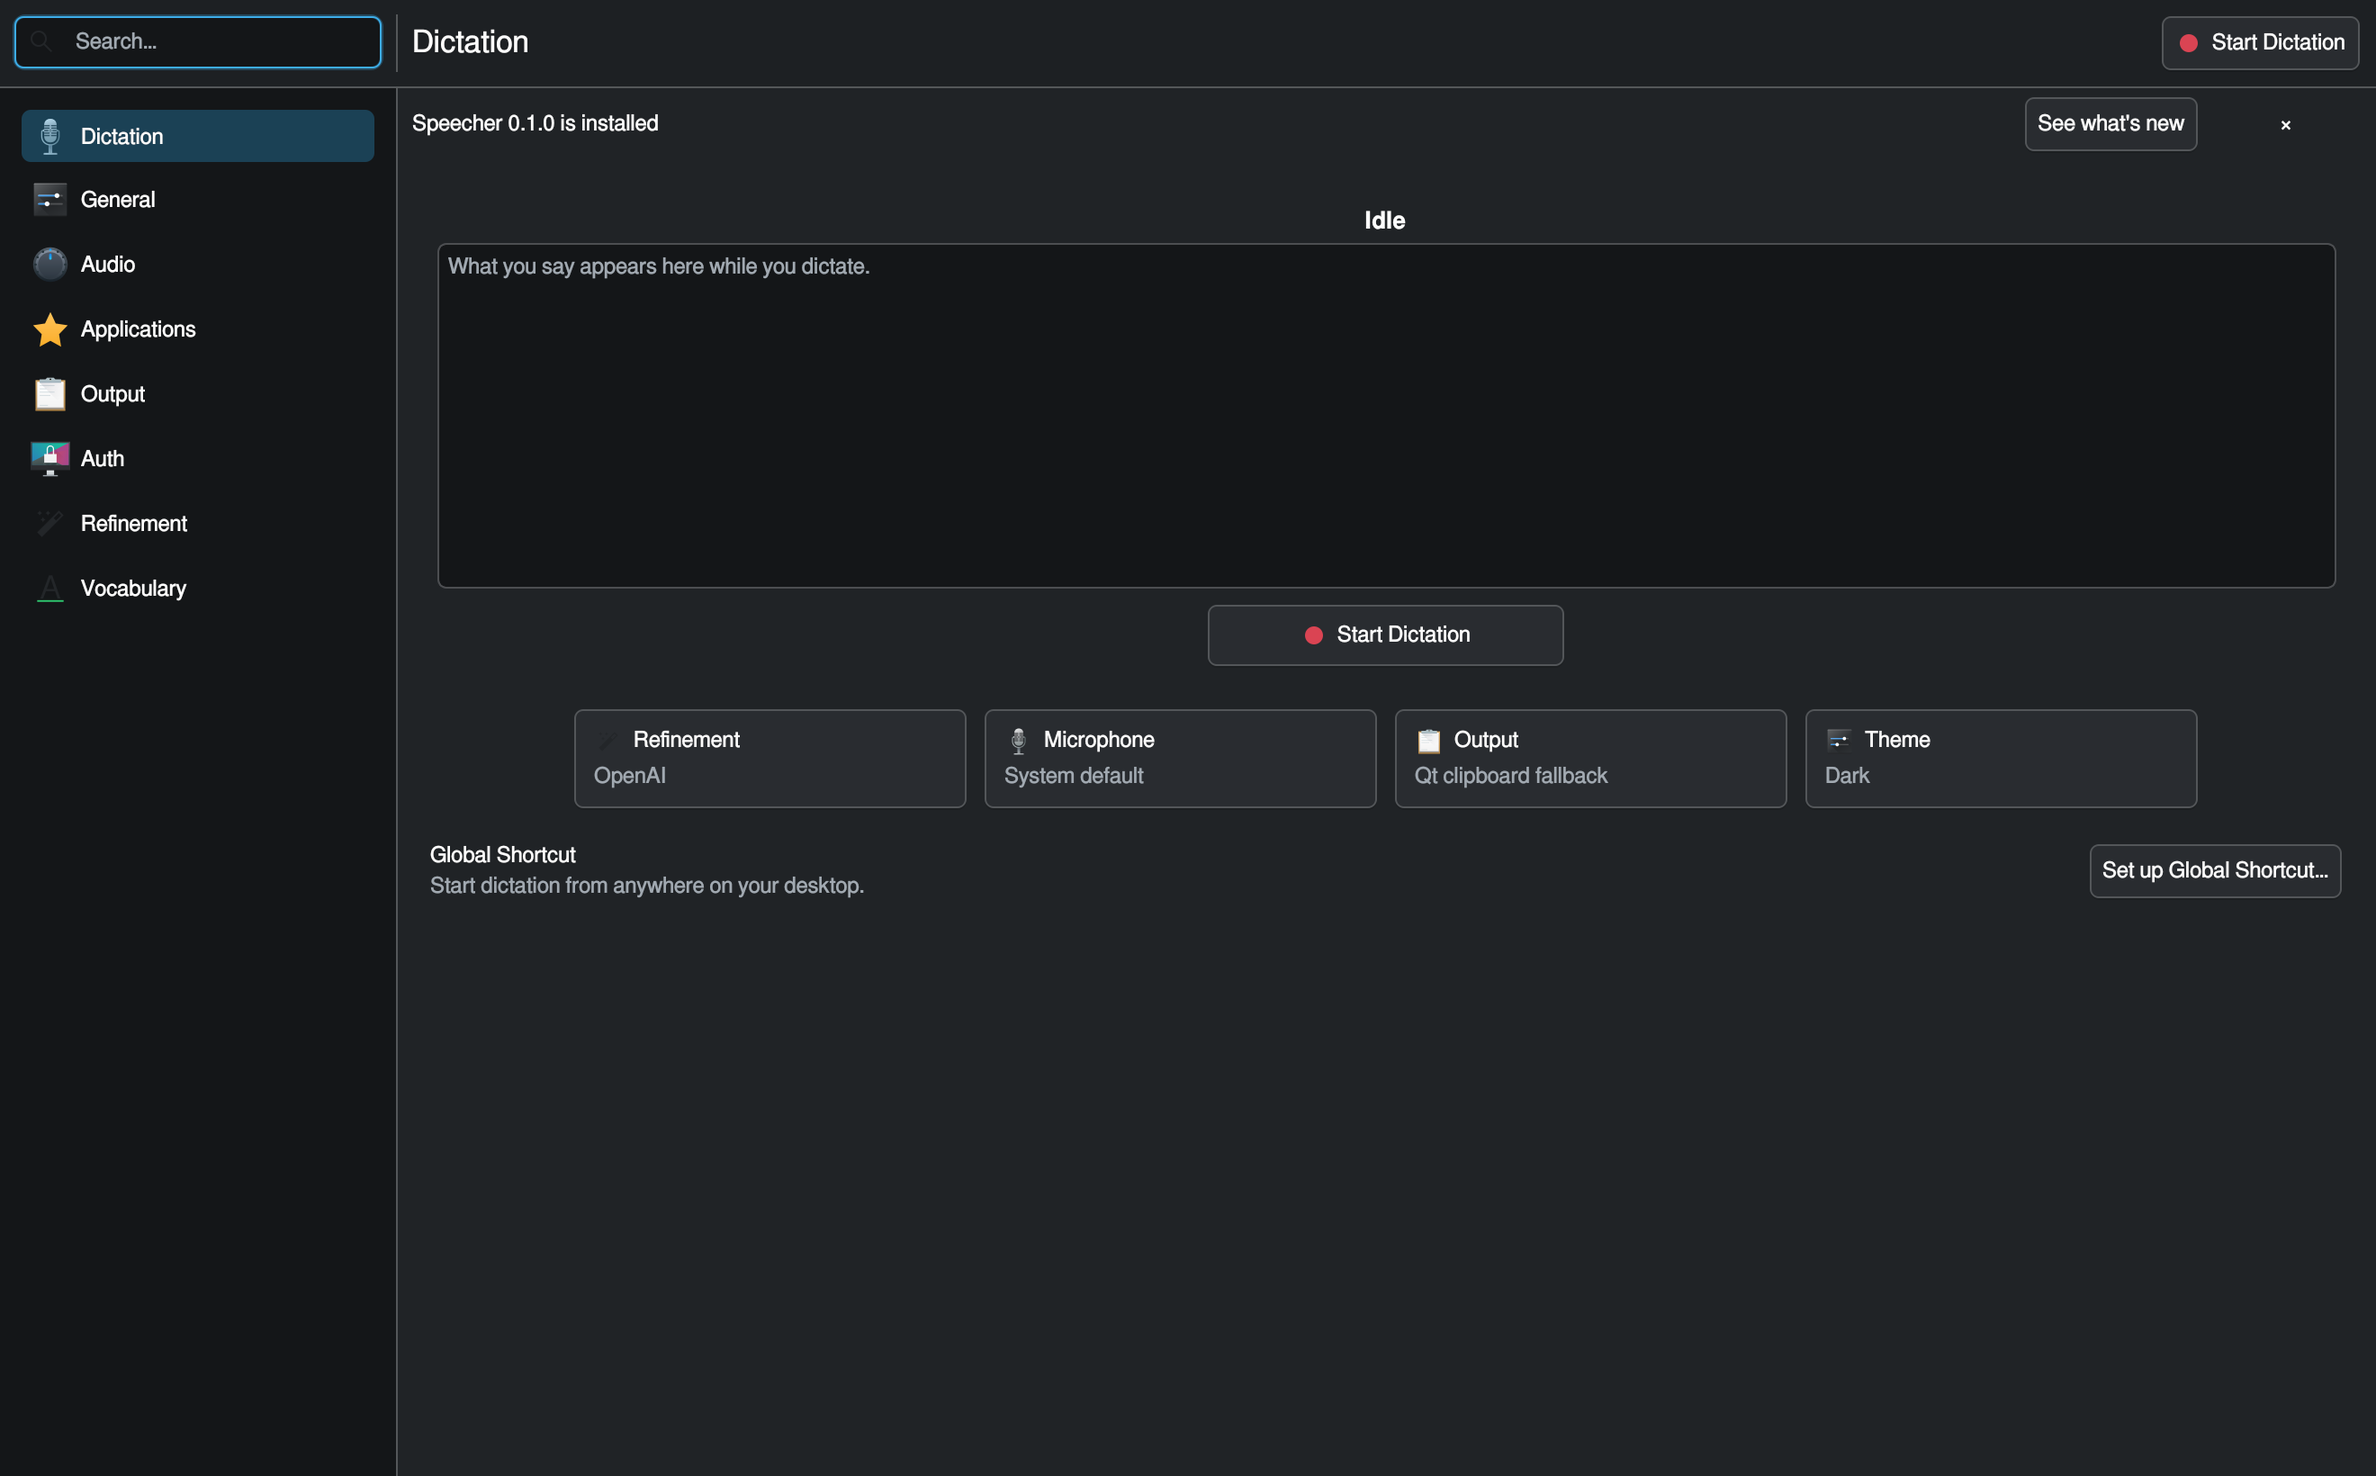
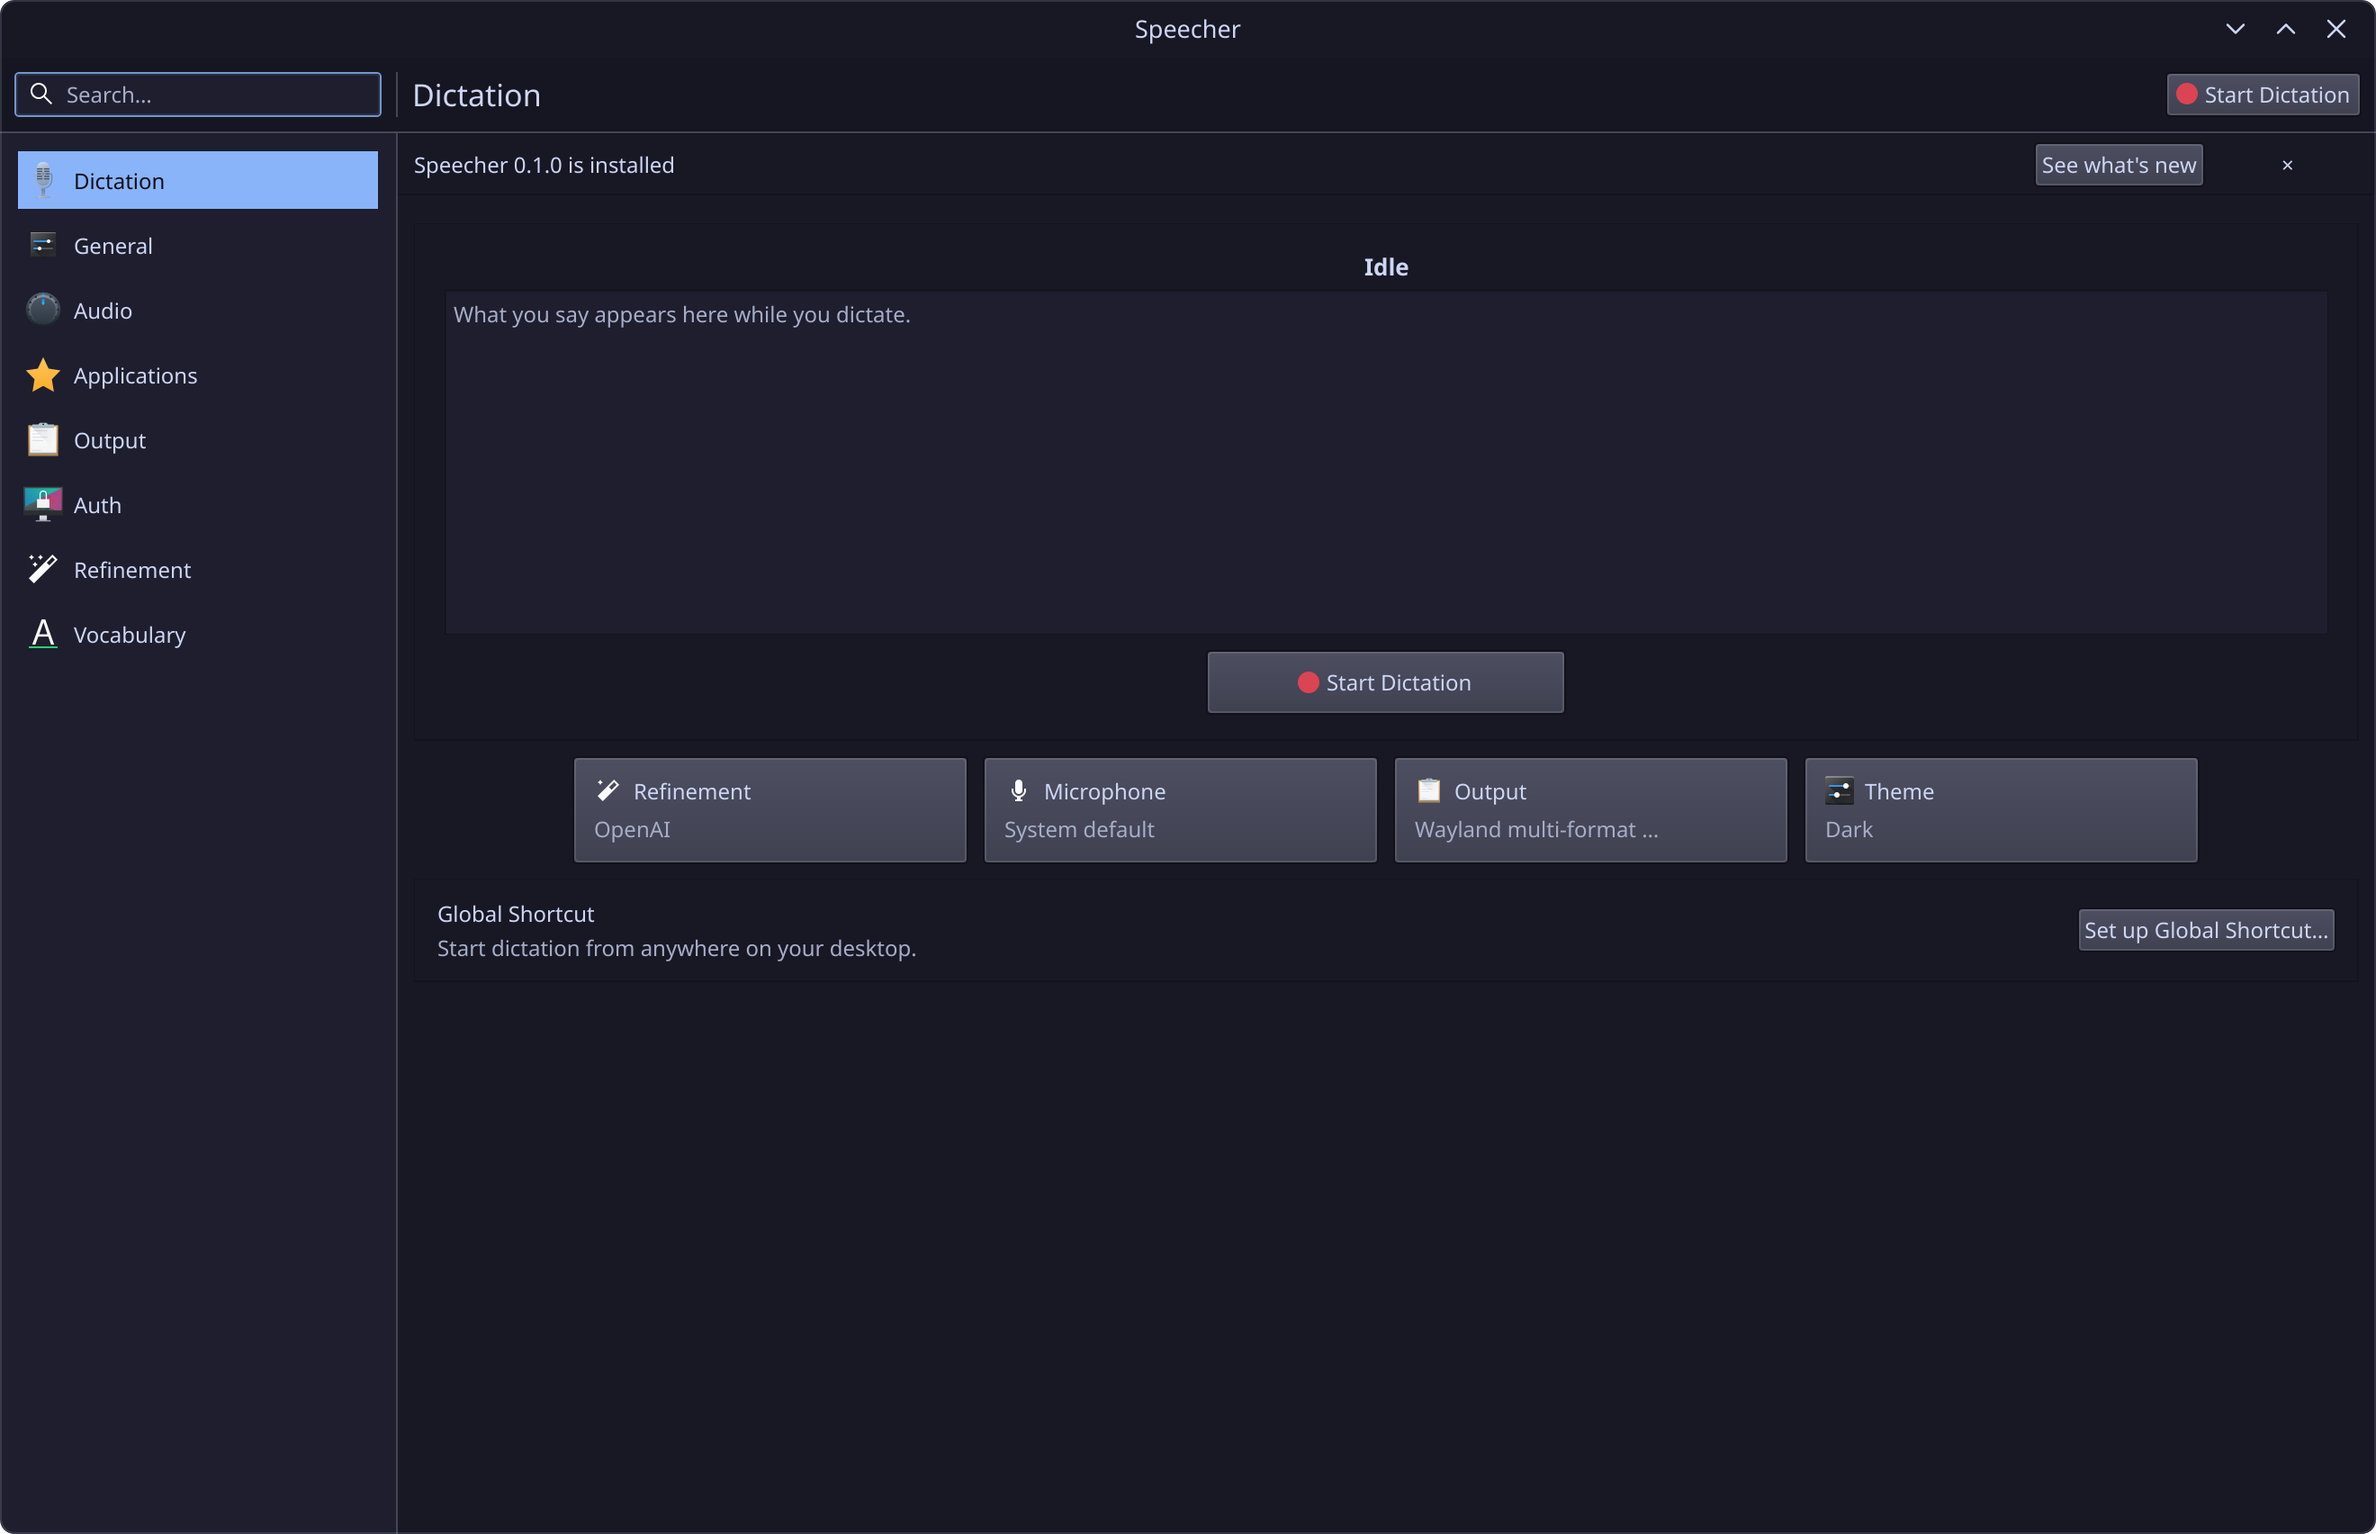
homepage: Catppuccin Mocha/Latte Blue Linux screenshots with titlebars
Retaken via the shots harness: Catppuccin Mocha Blue for dark, Latte Blue for
light, Breeze-style titlebar painted from the scheme's header colors, 2x scale.

diff --git a/index.html b/index.html
@@ -5,7 +5,7 @@
 <meta name="viewport" content="width=device-width, initial-scale=1">
 <title>Speecher · dictation for Linux and macOS on the subscriptions you already have</title>
 <meta name="description" content="Native speech-to-text for Linux and macOS. Press a shortcut, talk, and clean text lands in the app you're using. Runs on your existing Claude Code or ChatGPT login.">
-<link rel="icon" href="assets/icon.svg?v=9" type="image/svg+xml">
+<link rel="icon" href="assets/icon.svg?v=10" type="image/svg+xml">
 <style>
 :root{
   --paper:#f5f2e9; --card:#fffdf6; --ink:#1b1b17; --muted:#6d6c60; --line:#e2ddcd;
@@ -154,7 +154,7 @@ footer a{color:inherit}
 
 <header>
   <div class="wrap">
-    <a class="logo" href="#"><img src="assets/icon.svg?v=9" alt="">Speecher</a>
+    <a class="logo" href="#"><img src="assets/icon.svg?v=10" alt="">Speecher</a>
     <span class="spacer"></span>
     <nav>
       <a href="https://github.com/firemonster612/speecher">GitHub</a>
@@ -197,9 +197,9 @@ footer a{color:inherit}
     </div>
     <figure class="shot">
       <img data-shot
-        data-linux-light="assets/linux-general-light.png?v=9" data-linux-dark="assets/linux-general-dark.png?v=9"
-        data-mac-light="assets/mac-general-light.png?v=9" data-mac-dark="assets/mac-general-dark.png?v=9"
-        alt="Speecher settings window" width="2640" height="1640">
+        data-linux-light="assets/linux-general-light.png?v=10" data-linux-dark="assets/linux-general-dark.png?v=10"
+        data-mac-light="assets/mac-general-light.png?v=10" data-mac-dark="assets/mac-general-dark.png?v=10"
+        alt="Speecher settings window" width="2640" height="1704">
     </figure>
     <p class="stagelede">Qt at home on Plasma. SwiftUI in the menu bar on macOS. Not a web view in a frame.</p>
   </div>
@@ -230,8 +230,8 @@ footer a{color:inherit}
         shortcuts, so you bind one key to <code>speecher toggle</code> and you're done.</p>
     </div>
     <div class="shot"><img data-shot
-      data-linux-light="assets/linux-dictation-light.png?v=9" data-linux-dark="assets/linux-dictation-dark.png?v=9"
-      data-mac-light="assets/mac-dictation-light.png?v=9" data-mac-dark="assets/mac-dictation-dark.png?v=9"
+      data-linux-light="assets/linux-dictation-light.png?v=10" data-linux-dark="assets/linux-dictation-dark.png?v=10"
+      data-mac-light="assets/mac-dictation-light.png?v=10" data-mac-dark="assets/mac-dictation-dark.png?v=10"
       alt="Dictation page"></div>
   </section>
 
@@ -247,8 +247,8 @@ footer a{color:inherit}
         register the destination calls for.</b></p>
     </div>
     <div class="shot"><img data-shot
-      data-linux-light="assets/linux-refinement-light.png?v=9" data-linux-dark="assets/linux-refinement-dark.png?v=9"
-      data-mac-light="assets/mac-text-light.png?v=9" data-mac-dark="assets/mac-text-dark.png?v=9"
+      data-linux-light="assets/linux-refinement-light.png?v=10" data-linux-dark="assets/linux-refinement-dark.png?v=10"
+      data-mac-light="assets/mac-text-light.png?v=10" data-mac-dark="assets/mac-text-dark.png?v=10"
       alt="Refinement settings"></div>
   </section>
 
@@ -285,8 +285,8 @@ footer a{color:inherit}
         learned locally. <b>Fixing "at spy" to "AT-SPI" only ever happens once.</b></p>
     </div>
     <div class="shot"><img data-shot
-      data-linux-light="assets/linux-vocabulary-light.png?v=9" data-linux-dark="assets/linux-vocabulary-dark.png?v=9"
-      data-mac-light="assets/mac-vocabulary-light.png?v=9" data-mac-dark="assets/mac-vocabulary-dark.png?v=9"
+      data-linux-light="assets/linux-vocabulary-light.png?v=10" data-linux-dark="assets/linux-vocabulary-dark.png?v=10"
+      data-mac-light="assets/mac-vocabulary-light.png?v=10" data-mac-dark="assets/mac-vocabulary-dark.png?v=10"
       alt="Vocabulary settings"></div>
   </section>
 
